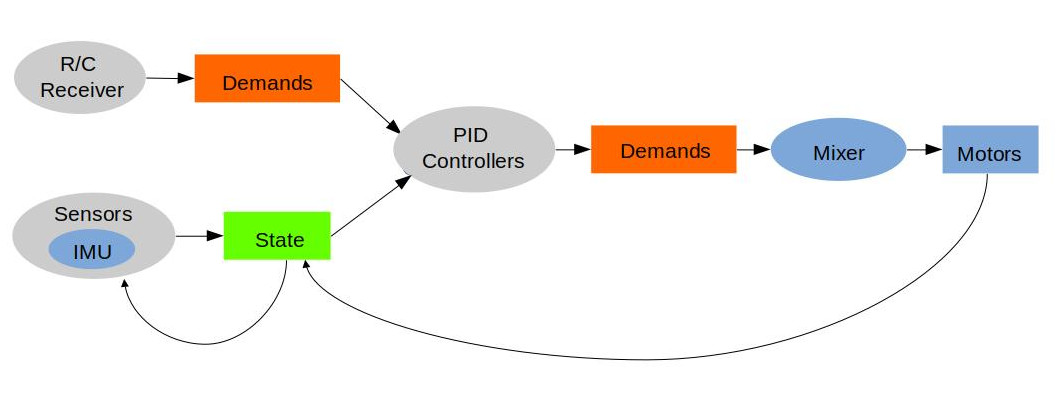
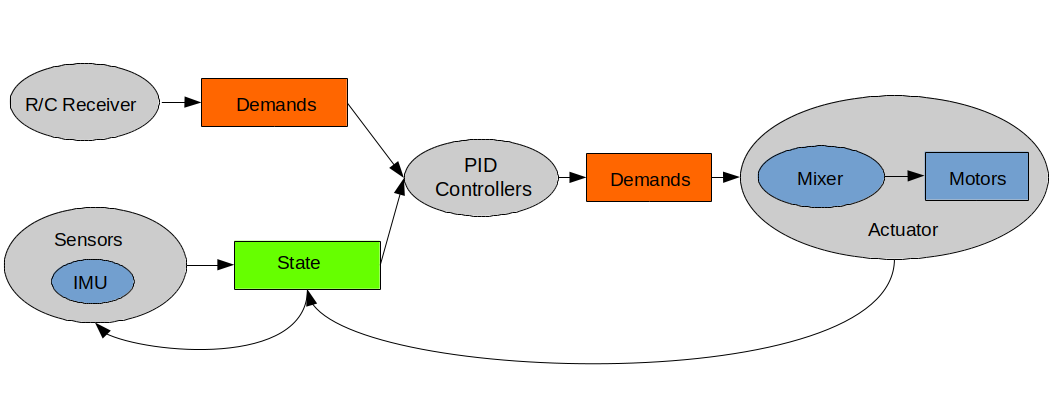
More diagram

diff --git a/README.md b/README.md
@@ -115,7 +115,7 @@ control device. Then the demands are then
 sent to the [mixer](https://github.com/simondlevy/Hackflight/blob/master/src/mixer.hpp), which determines the
 values to be sent to each motor.  The motors spin the propellers, which in turn modifies the state of the vehicle:
 
-<img src="extras/media/dataflow.png" width=800>
+<img src="extras/media/dataflow2.png" width=800>
 
 ### Sensors
 
